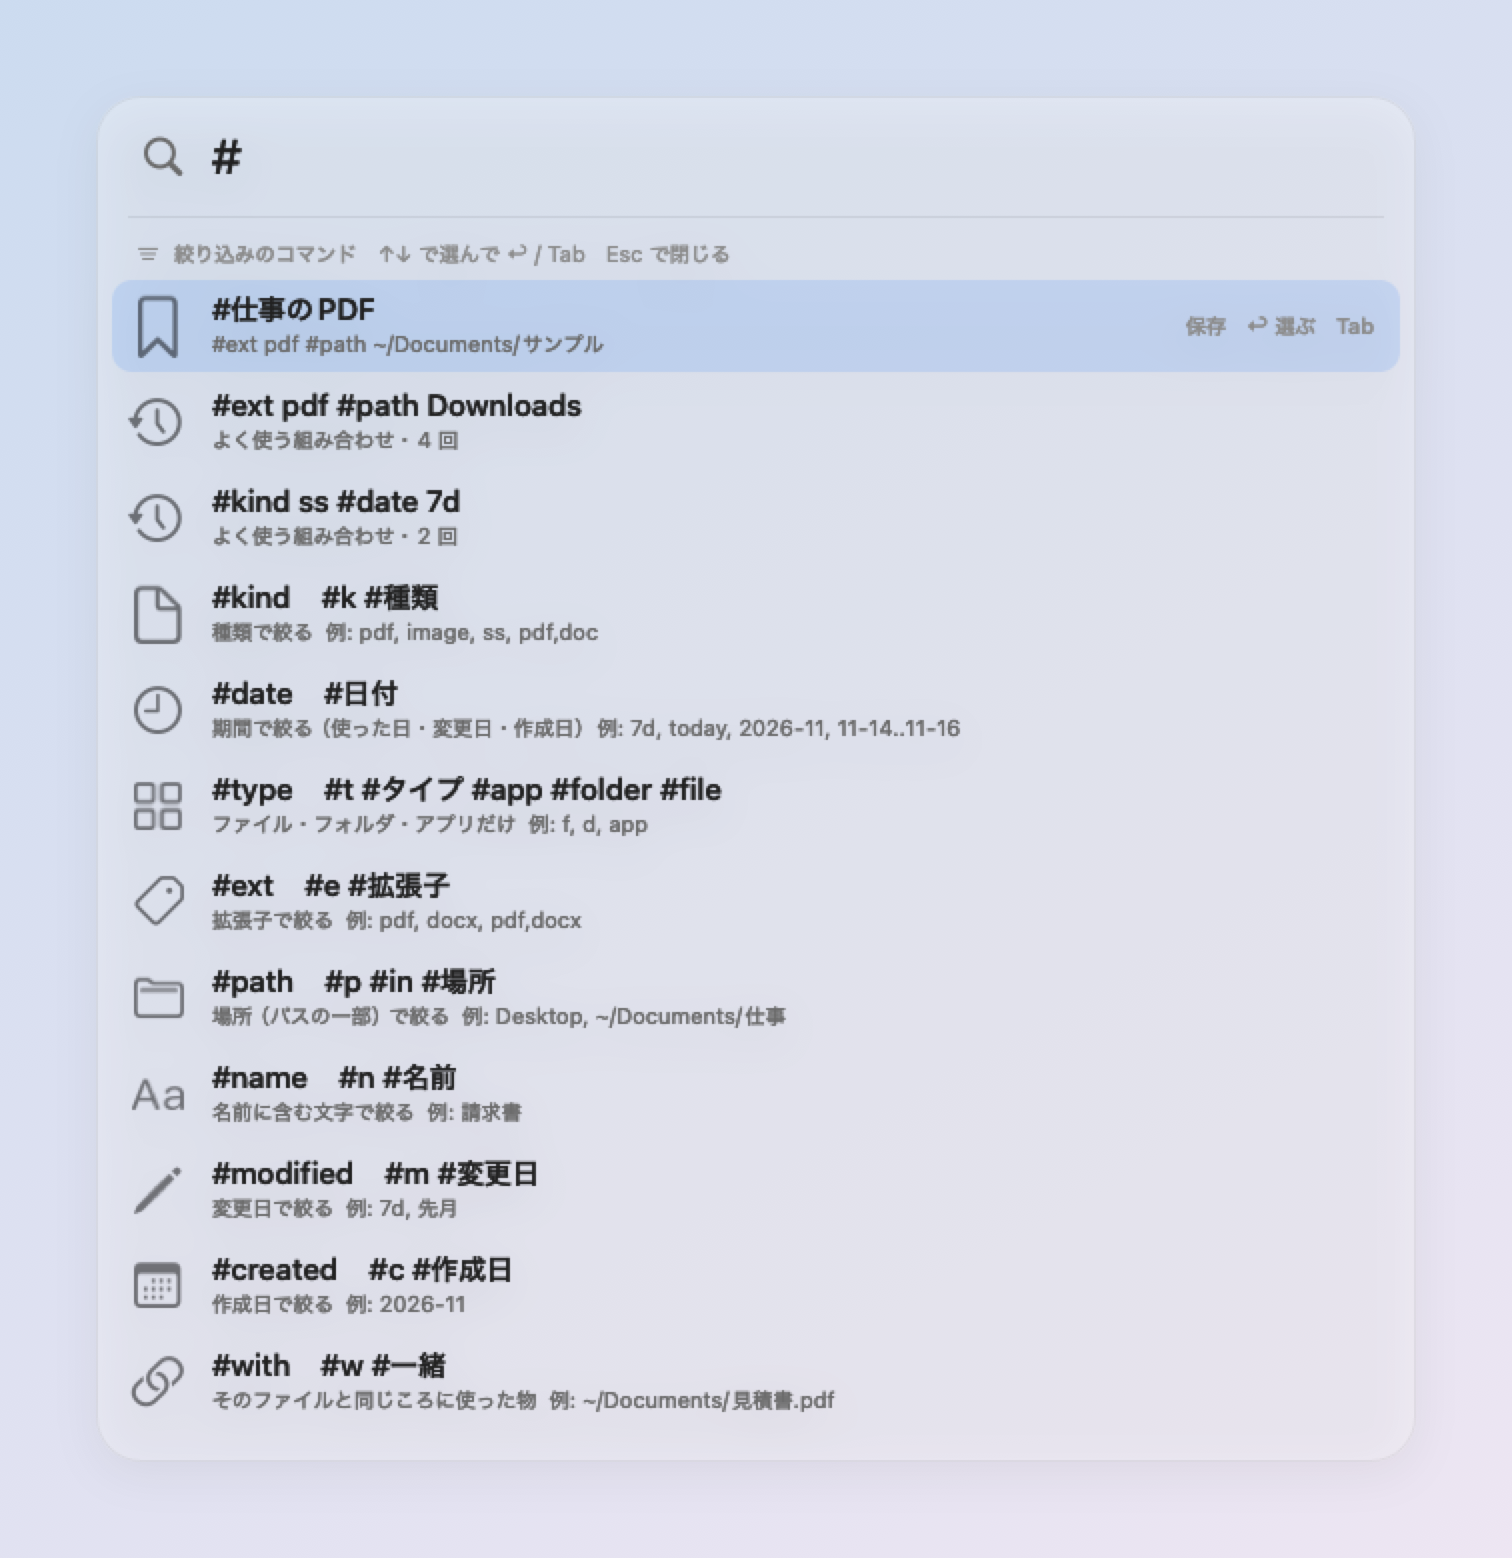
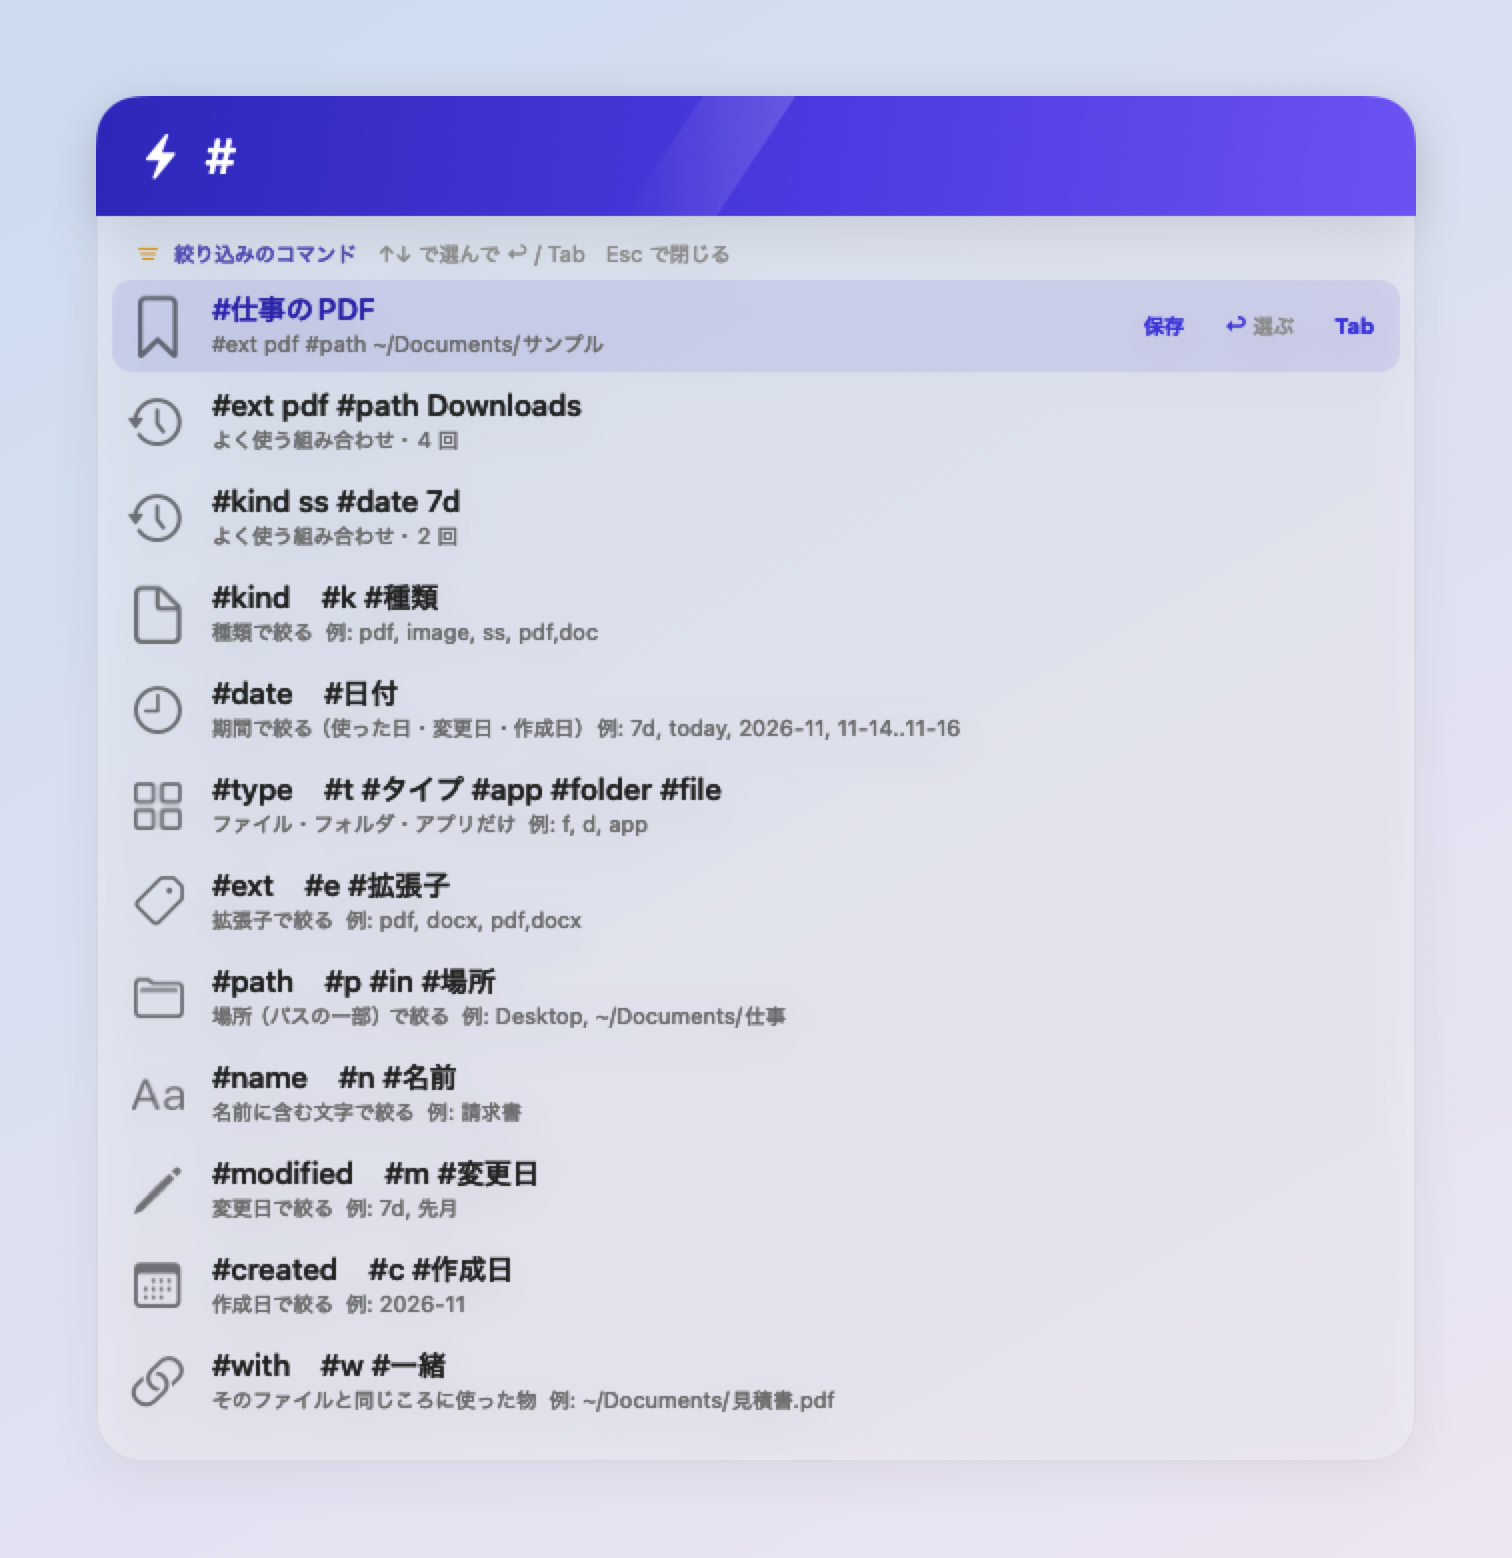
見た目を Raiden らしくする（入力欄を藍のグラデーションの帯に、稲妻の印・金のカーソル、選んだ行と絞り込みの札を藍、節の見出しに金の印、キーの案内のキーを藍）

Changed region(s): [[0.0622, 0.0616, 0.9636, 0.2157], [0.746, 0.1849, 0.9015, 0.2157]]

diff --git a/app/Sources/Raiden/SearchPanel.swift b/app/Sources/Raiden/SearchPanel.swift
@@ -22,7 +22,19 @@ enum PanelStyle {
     static var veil: NSColor { NSColor(white: 1, alpha: CGFloat(0.75 * (1 - transparency))) }
     /// これ以上透けさせるときはガラスを .clear にする
     static let clearGlassAbove = 0.75
-    static let selection = NSColor(srgbRed: 0.0, green: 0.42, blue: 1.0, alpha: 0.12)
+    /// Raiden の色（アイコンの稲妻の藍と、火花の金）
+    static let indigo = NSColor(srgbRed: 0.231, green: 0.204, blue: 0.839, alpha: 1)      // #3B34D6
+    static let indigoDeep = NSColor(srgbRed: 0.165, green: 0.141, blue: 0.659, alpha: 1)  // #2A24A8 選んだ行の名前
+    static let indigoLabel = NSColor(srgbRed: 0.31, green: 0.29, blue: 0.69, alpha: 1)    // 節の見出し
+    static let gold = NSColor(srgbRed: 0.914, green: 0.698, blue: 0.227, alpha: 1)        // #E9B23A カーソル
+    static let goldDeep = NSColor(srgbRed: 0.84, green: 0.58, blue: 0.10, alpha: 1)       // 白の上の金（見出しの印）
+    /// 入力欄の帯の上の文字
+    static let onBand = NSColor.white
+    static let onBandFaint = NSColor(white: 1, alpha: 0.62)
+    static let onBandFainter = NSColor(white: 1, alpha: 0.45)
+    static let selection = NSColor(srgbRed: 0.231, green: 0.204, blue: 0.839, alpha: 0.10)
+    /// 絞り込みの札（効いている物）の面
+    static let pillFill = NSColor(srgbRed: 0.231, green: 0.204, blue: 0.839, alpha: 0.09)
     static let separator = NSColor(white: 0, alpha: 0.08)
     static let radius: CGFloat = 22
 }
@@ -45,6 +57,27 @@ final class VeilView: NSView {
     }
 }
 
+/// 入力欄の帯（藍のグラデーションに斜めの光）。上の角はパネルの切り抜きで丸くなる
+final class BandView: NSView {
+    override func draw(_ dirtyRect: NSRect) {
+        let g = NSGradient(colors: [NSColor(srgbRed: 0.173, green: 0.153, blue: 0.722, alpha: 1),   // #2C27B8
+                                    NSColor(srgbRed: 0.294, green: 0.231, blue: 0.878, alpha: 1),   // #4B3BE0
+                                    NSColor(srgbRed: 0.424, green: 0.322, blue: 0.949, alpha: 1)],  // #6C52F2
+                           atLocations: [0, 0.55, 1], colorSpace: .sRGB)
+        g?.draw(in: bounds, angle: -8)
+        // 斜めの光の筋（稲光）
+        let w = bounds.width, h = bounds.height
+        let sheen = NSBezierPath()
+        sheen.move(to: NSPoint(x: w * 0.40, y: 0)); sheen.line(to: NSPoint(x: w * 0.47, y: 0))
+        sheen.line(to: NSPoint(x: w * 0.53, y: h)); sheen.line(to: NSPoint(x: w * 0.46, y: h)); sheen.close()
+        NSGraphicsContext.saveGraphicsState()
+        sheen.addClip()
+        NSGradient(starting: NSColor(white: 1, alpha: 0), ending: NSColor(white: 1, alpha: 0.16))?
+            .draw(in: NSRect(x: w * 0.40, y: 0, width: w * 0.13, height: h), angle: 0)
+        NSGraphicsContext.restoreGraphicsState()
+    }
+}
+
 /// 1 px の区切り線
 final class HairlineView: NSView {
     override func draw(_ dirtyRect: NSRect) {
@@ -61,7 +94,25 @@ final class ResultRow: NSView {
     let sub = NSTextField(labelWithString: "")
     let hint = NSTextField(labelWithString: "")
     var onClick: (() -> Void)?
-    var selected = false { didSet { needsDisplay = true; hint.isHidden = !selected } }
+    var selected = false {
+        didSet { needsDisplay = true; hint.isHidden = !selected; title.textColor = selected ? PanelStyle.indigoDeep : PanelStyle.text }
+    }
+
+    /// 操作の手がかり。キー（↩ ⌘↩ など）は藍、言葉は薄いグレー
+    func setHint(_ s: String) {
+        let out = NSMutableAttributedString()
+        for (i, part) in s.components(separatedBy: "　").enumerated() {
+            if i > 0 { out.append(NSAttributedString(string: "　　", attributes: [.font: NSFont.systemFont(ofSize: 11)])) }
+            let sp = part.split(separator: " ", maxSplits: 1).map(String.init)
+            out.append(NSAttributedString(string: sp[0], attributes: [
+                .font: NSFont.systemFont(ofSize: 11, weight: .bold), .foregroundColor: PanelStyle.indigo]))
+            if sp.count > 1 {
+                out.append(NSAttributedString(string: " " + sp[1], attributes: [
+                    .font: NSFont.systemFont(ofSize: 11, weight: .medium), .foregroundColor: PanelStyle.faint]))
+            }
+        }
+        hint.attributedStringValue = out
+    }
 
     override init(frame: NSRect) {
         super.init(frame: frame)
@@ -136,10 +187,10 @@ final class LabelLine: NSView {
     init(_ text: String, symbol name: String, detail: String? = nil, big: Bool = false) {
         super.init(frame: .zero)
         let glyph = NSImageView(image: symbol(name, size: big ? 15 : 10, weight: .semibold) ?? NSImage())
-        glyph.contentTintColor = big ? PanelStyle.subText : PanelStyle.faint
+        glyph.contentTintColor = big ? PanelStyle.subText : PanelStyle.goldDeep
         let label = NSTextField(labelWithString: text)
         label.font = big ? .systemFont(ofSize: 14, weight: .semibold) : .systemFont(ofSize: 11, weight: .semibold)
-        label.textColor = big ? PanelStyle.text : PanelStyle.faint
+        label.textColor = big ? PanelStyle.text : PanelStyle.indigoLabel
         var views: [NSView] = [glyph, label]
         let d = NSTextField(labelWithString: detail ?? "")
         d.font = .systemFont(ofSize: 11)
@@ -379,20 +430,20 @@ final class SearchPanelController: NSObject, NSTextFieldDelegate, NSWindowDelega
         content.layer?.cornerCurve = .continuous
         content.layer?.masksToBounds = true
 
-        let glyph = NSImageView(image: symbol("magnifyingglass", size: 20, weight: .medium) ?? NSImage())
-        glyph.contentTintColor = PanelStyle.subText
+        let glyph = NSImageView(image: symbol("bolt.fill", size: 20, weight: .semibold) ?? NSImage())
+        glyph.contentTintColor = PanelStyle.onBand
         field.isBordered = false
         field.drawsBackground = false
         field.focusRingType = .none
         field.font = .systemFont(ofSize: 24, weight: .regular)
-        field.textColor = PanelStyle.text
+        field.textColor = PanelStyle.onBand
         // 入力欄が空のときの案内文: 「Raiden 検索」は薄いグレー、「filter: #」は # の使い方の手がかりとしてさらに薄く小さく
         field.placeholderAttributedString = Self.defaultPlaceholder
         field.delegate = self
         field.cell?.usesSingleLineMode = true
-        statusIcon.contentTintColor = PanelStyle.faint
+        statusIcon.contentTintColor = PanelStyle.onBandFaint
         status.font = .systemFont(ofSize: 12)
-        status.textColor = PanelStyle.subText
+        status.textColor = PanelStyle.onBandFaint
         status.alignment = .right
         let sep = HairlineView()
         for st in [stack, topStack] {
@@ -406,9 +457,9 @@ final class SearchPanelController: NSObject, NSTextFieldDelegate, NSWindowDelega
     /// 入力欄が空のときの案内文: 「Raiden 検索」は薄いグレー、「filter: #」は # の使い方の手がかりとしてさらに薄く小さく
     static var defaultPlaceholder: NSAttributedString {
         let ph = NSMutableAttributedString(string: "Raiden 検索", attributes: [
-            .foregroundColor: PanelStyle.faint, .font: NSFont.systemFont(ofSize: 24)])
+            .foregroundColor: PanelStyle.onBandFaint, .font: NSFont.systemFont(ofSize: 24)])
         ph.append(NSAttributedString(string: "   filter: #", attributes: [
-            .foregroundColor: NSColor(white: 0.70, alpha: 1), .font: NSFont.systemFont(ofSize: 15),
+            .foregroundColor: PanelStyle.onBandFainter, .font: NSFont.systemFont(ofSize: 15),
             .baselineOffset: 2]))
         return ph
     }
@@ -417,7 +468,7 @@ final class SearchPanelController: NSObject, NSTextFieldDelegate, NSWindowDelega
     func setPlaceholder(_ text: String?) {
         guard let text else { field.placeholderAttributedString = Self.defaultPlaceholder; return }
         field.placeholderAttributedString = NSAttributedString(string: text, attributes: [
-            .foregroundColor: PanelStyle.faint, .font: NSFont.systemFont(ofSize: 24)])
+            .foregroundColor: PanelStyle.onBandFaint, .font: NSFont.systemFont(ofSize: 24)])
     }
 
     private func setupList(sep: HairlineView, glyph: NSImageView) {
@@ -447,7 +498,9 @@ final class SearchPanelController: NSObject, NSTextFieldDelegate, NSWindowDelega
         NotificationCenter.default.addObserver(self, selector: #selector(listScrolled(_:)),
                                                name: NSView.boundsDidChangeNotification, object: scroll.contentView)
 
-        for v in [veil, glyph, field, statusIcon, status, sep, topStack, scroll] as [NSView] {
+        let band = BandView()
+        sep.isHidden = true   // 帯の下端が区切りになる
+        for v in [veil, band, glyph, field, statusIcon, status, sep, topStack, scroll] as [NSView] {
             v.translatesAutoresizingMaskIntoConstraints = false
             content.addSubview(v)
         }
@@ -456,6 +509,8 @@ final class SearchPanelController: NSObject, NSTextFieldDelegate, NSWindowDelega
         NSLayoutConstraint.activate([
             veil.topAnchor.constraint(equalTo: content.topAnchor), veil.bottomAnchor.constraint(equalTo: content.bottomAnchor),
             veil.leadingAnchor.constraint(equalTo: content.leadingAnchor), veil.trailingAnchor.constraint(equalTo: content.trailingAnchor),
+            band.topAnchor.constraint(equalTo: content.topAnchor), band.heightAnchor.constraint(equalToConstant: Self.fieldHeight),
+            band.leadingAnchor.constraint(equalTo: content.leadingAnchor), band.trailingAnchor.constraint(equalTo: content.trailingAnchor),
             glyph.leadingAnchor.constraint(equalTo: content.leadingAnchor, constant: 22),
             glyph.centerYAnchor.constraint(equalTo: content.topAnchor, constant: Self.fieldHeight / 2),
             field.leadingAnchor.constraint(equalTo: glyph.trailingAnchor, constant: 12),
@@ -730,7 +785,7 @@ final class SearchPanelController: NSObject, NSTextFieldDelegate, NSWindowDelega
                 row.translatesAutoresizingMaskIntoConstraints = false
                 row.title.stringValue = item.title
                 row.sub.stringValue = item.sub
-                row.hint.stringValue = item.hint
+                row.setHint(item.hint)
                 row.icon.image = item.iconImage ?? item.iconPath.map(icon)
                 row.alphaValue = rowAlpha[i]
                 row.onClick = { [weak self] in self?.clickRow(i) }
@@ -958,4 +1013,17 @@ final class SearchPanelController: NSObject, NSTextFieldDelegate, NSWindowDelega
     }
 
     func windowDidResignKey(_ notification: Notification) { hide() }
+
+    /// 入力欄の編集部品。帯の上なのでカーソルは金、選んだ文字は白く透かす
+    private lazy var bandEditor: NSTextView = {
+        let tv = NSTextView()
+        tv.isFieldEditor = true
+        tv.insertionPointColor = PanelStyle.gold
+        tv.selectedTextAttributes = [.backgroundColor: NSColor(white: 1, alpha: 0.28), .foregroundColor: PanelStyle.onBand]
+        return tv
+    }()
+
+    func windowWillReturnFieldEditor(_ sender: NSWindow, to client: Any?) -> Any? {
+        (client as? NSTextField) === field ? bandEditor : nil
+    }
 }

diff --git a/app/Sources/Raiden/FilterUI.swift b/app/Sources/Raiden/FilterUI.swift
@@ -44,7 +44,7 @@ final class FilterInput {
         self.panel = panel
         self.field = field
         ghostLabel.font = field.font
-        ghostLabel.textColor = NSColor(white: 0.62, alpha: 1)
+        ghostLabel.textColor = PanelStyle.onBandFainter
         ghostLabel.lineBreakMode = .byClipping
         ghostLabel.isHidden = true
         content.addSubview(ghostLabel)
@@ -497,7 +497,7 @@ final class ChipBar: NSView {
     static func pill(_ text: String, symbol name: String, filled: Bool, closable: Bool = false, faint: Bool = false) -> TapPill {
         let v = PillView(filled: filled)
         let icon = NSImageView(image: symbol(name, size: 10, weight: .semibold) ?? NSImage())
-        icon.contentTintColor = filled ? NSColor(srgbRed: 0.0, green: 0.36, blue: 0.85, alpha: 1) : PanelStyle.subText
+        icon.contentTintColor = filled ? PanelStyle.indigo : PanelStyle.subText
         let l = NSTextField(labelWithString: text)
         l.font = .systemFont(ofSize: 11, weight: .medium)
         l.textColor = filled ? PanelStyle.text : (faint ? PanelStyle.faint : PanelStyle.subText)
@@ -551,7 +551,7 @@ final class PillView: TapPill {
     override func draw(_ dirtyRect: NSRect) {
         let p = NSBezierPath(roundedRect: bounds.insetBy(dx: 0.5, dy: 0.5), xRadius: 11, yRadius: 11)
         if filled {
-            NSColor(srgbRed: 0.0, green: 0.42, blue: 1.0, alpha: 0.10).setFill()
+            PanelStyle.pillFill.setFill()
             p.fill()
         } else {
             NSColor(white: 0, alpha: 0.14).setStroke()
